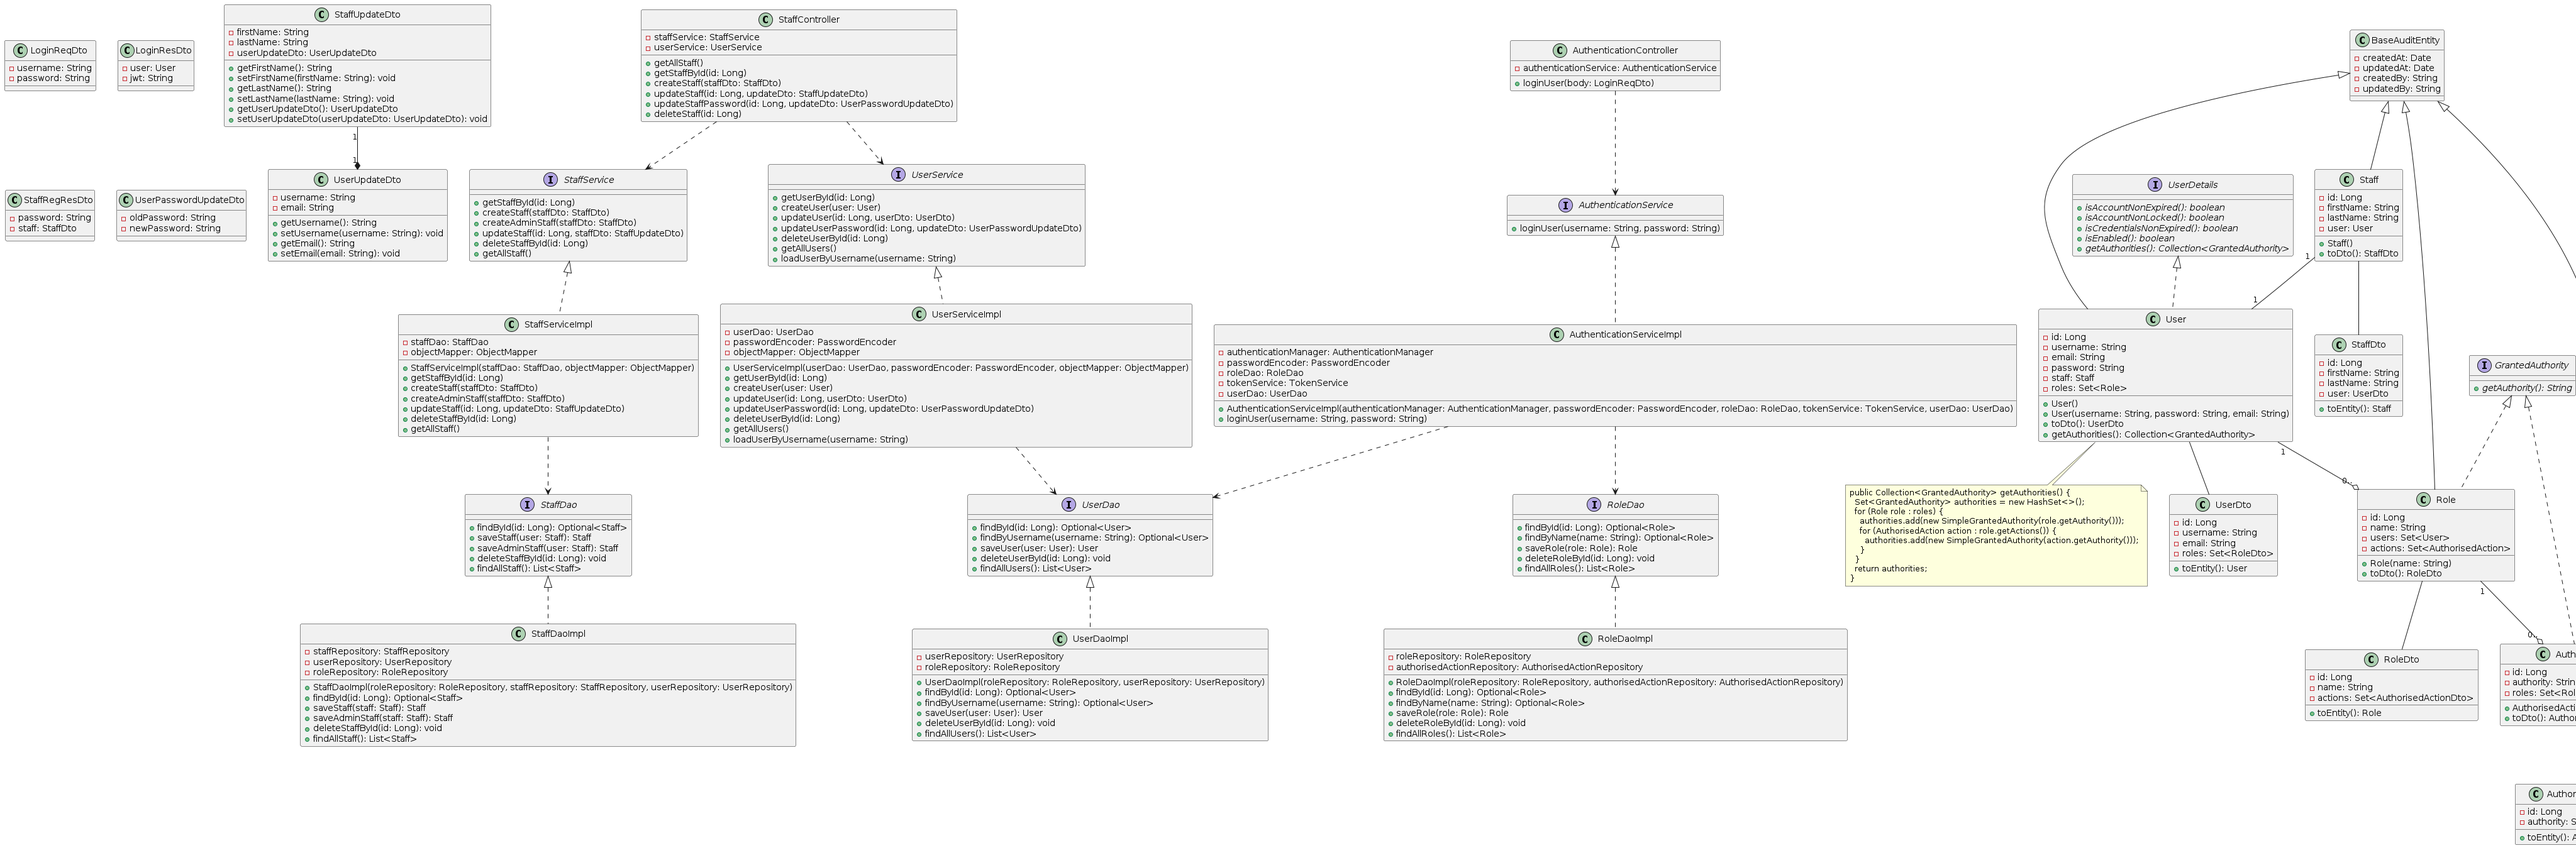
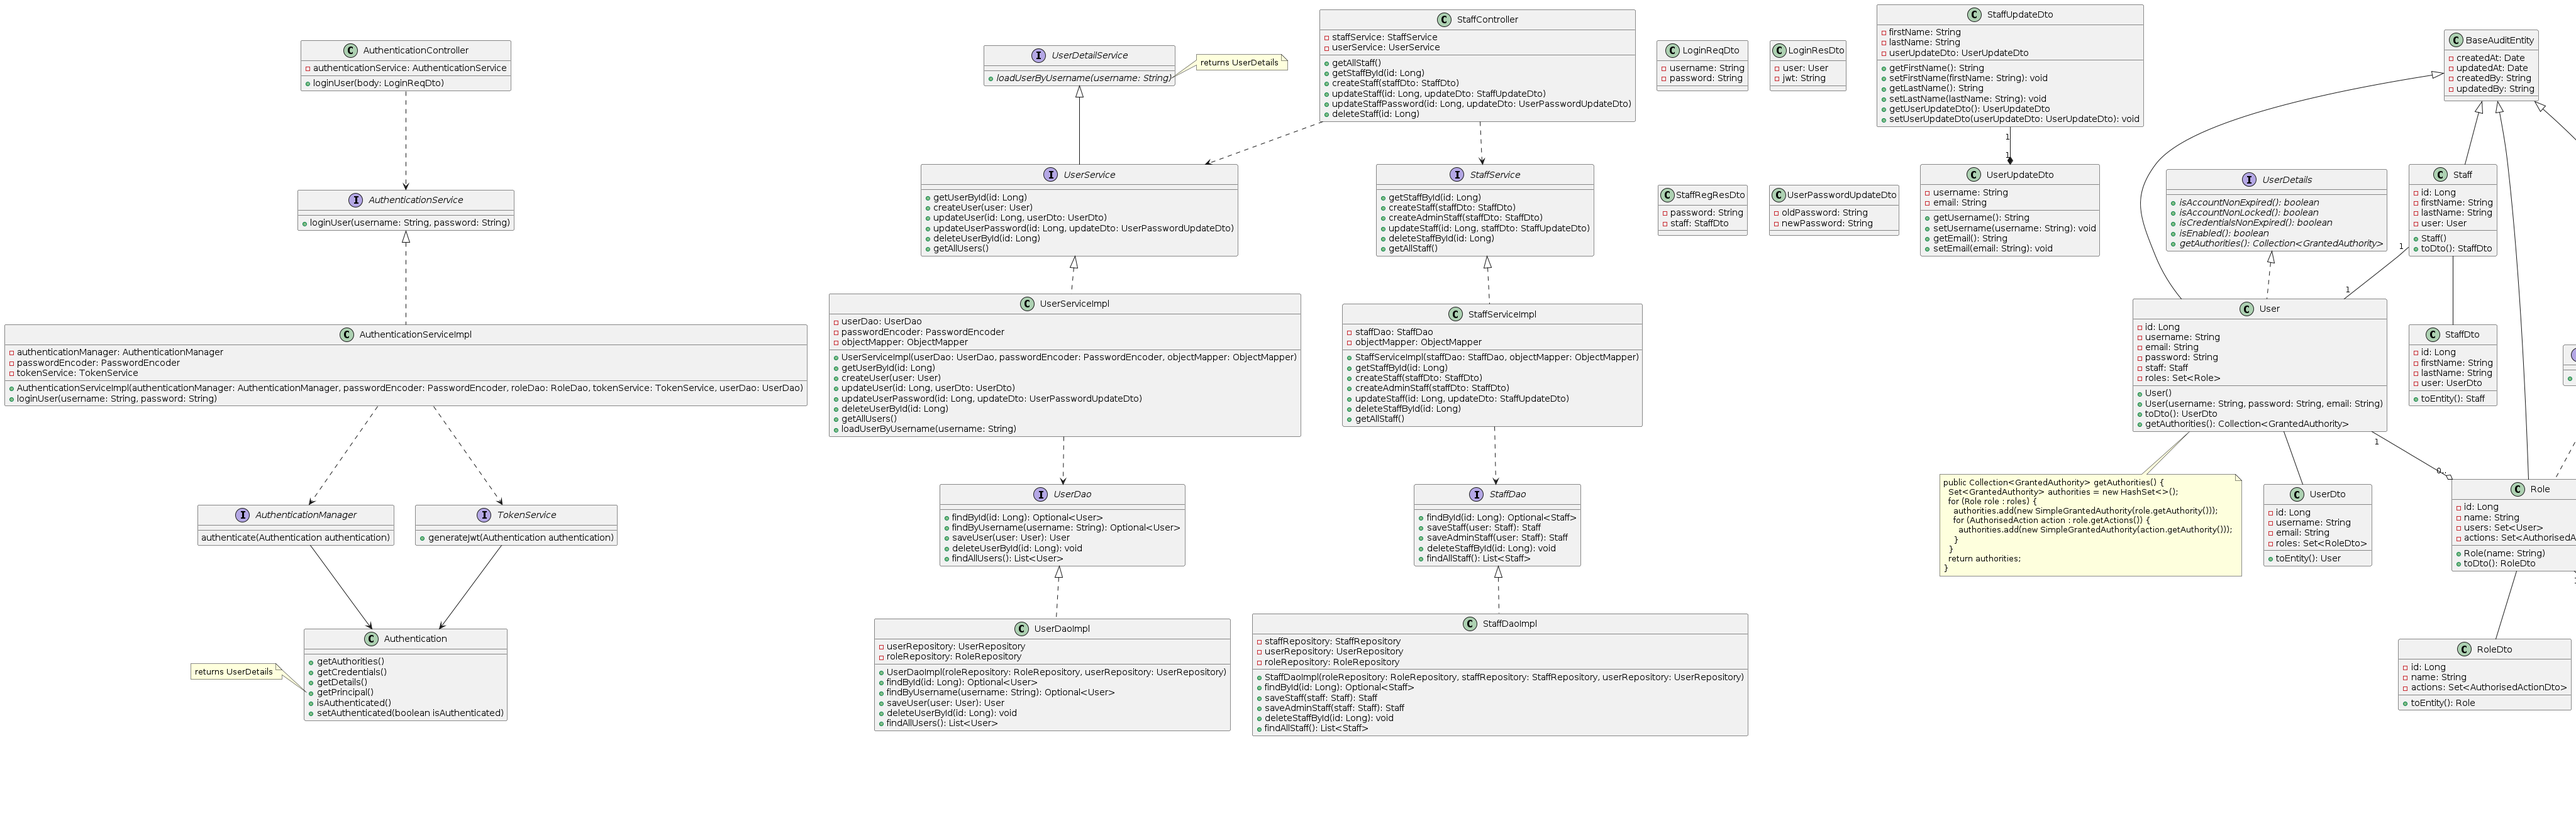
Update AuthenticationService remove Daos

diff --git a/backend/src/main/java/com/nusiss/inventory/backend/service/impl/AuthenticationServiceImpl.java b/backend/src/main/java/com/nusiss/inventory/backend/service/impl/AuthenticationServiceImpl.java
@@ -22,24 +22,16 @@ public class AuthenticationServiceImpl implements AuthenticationService {
 
   private final PasswordEncoder passwordEncoder;
 
-  private final RoleDao roleDao;
-
   private final TokenService tokenService;
-
-  private final UserDao userDao;
 
   @Autowired
   public AuthenticationServiceImpl(
       AuthenticationManager authenticationManager,
       PasswordEncoder passwordEncoder,
-      RoleDao roleDao,
-      TokenService tokenService,
-      UserDao userDao) {
+      TokenService tokenService) {
     this.authenticationManager = authenticationManager;
     this.passwordEncoder = passwordEncoder;
-    this.roleDao = roleDao;
     this.tokenService = tokenService;
-    this.userDao = userDao;
   }
 
   public LoginResDto loginUser(String username, String password) {
@@ -49,8 +41,9 @@ public class AuthenticationServiceImpl implements AuthenticationService {
               new UsernamePasswordAuthenticationToken(username, password));
 
       String token = tokenService.generateJwt(auth);
+      User user = (User) auth.getPrincipal();
 
-      return new LoginResDto(userDao.findByUsername(username).get().toDto(), token);
+      return new LoginResDto(user.toDto(), token);
     } catch (AuthenticationException e) {
       return new LoginResDto(null, "");
     }
